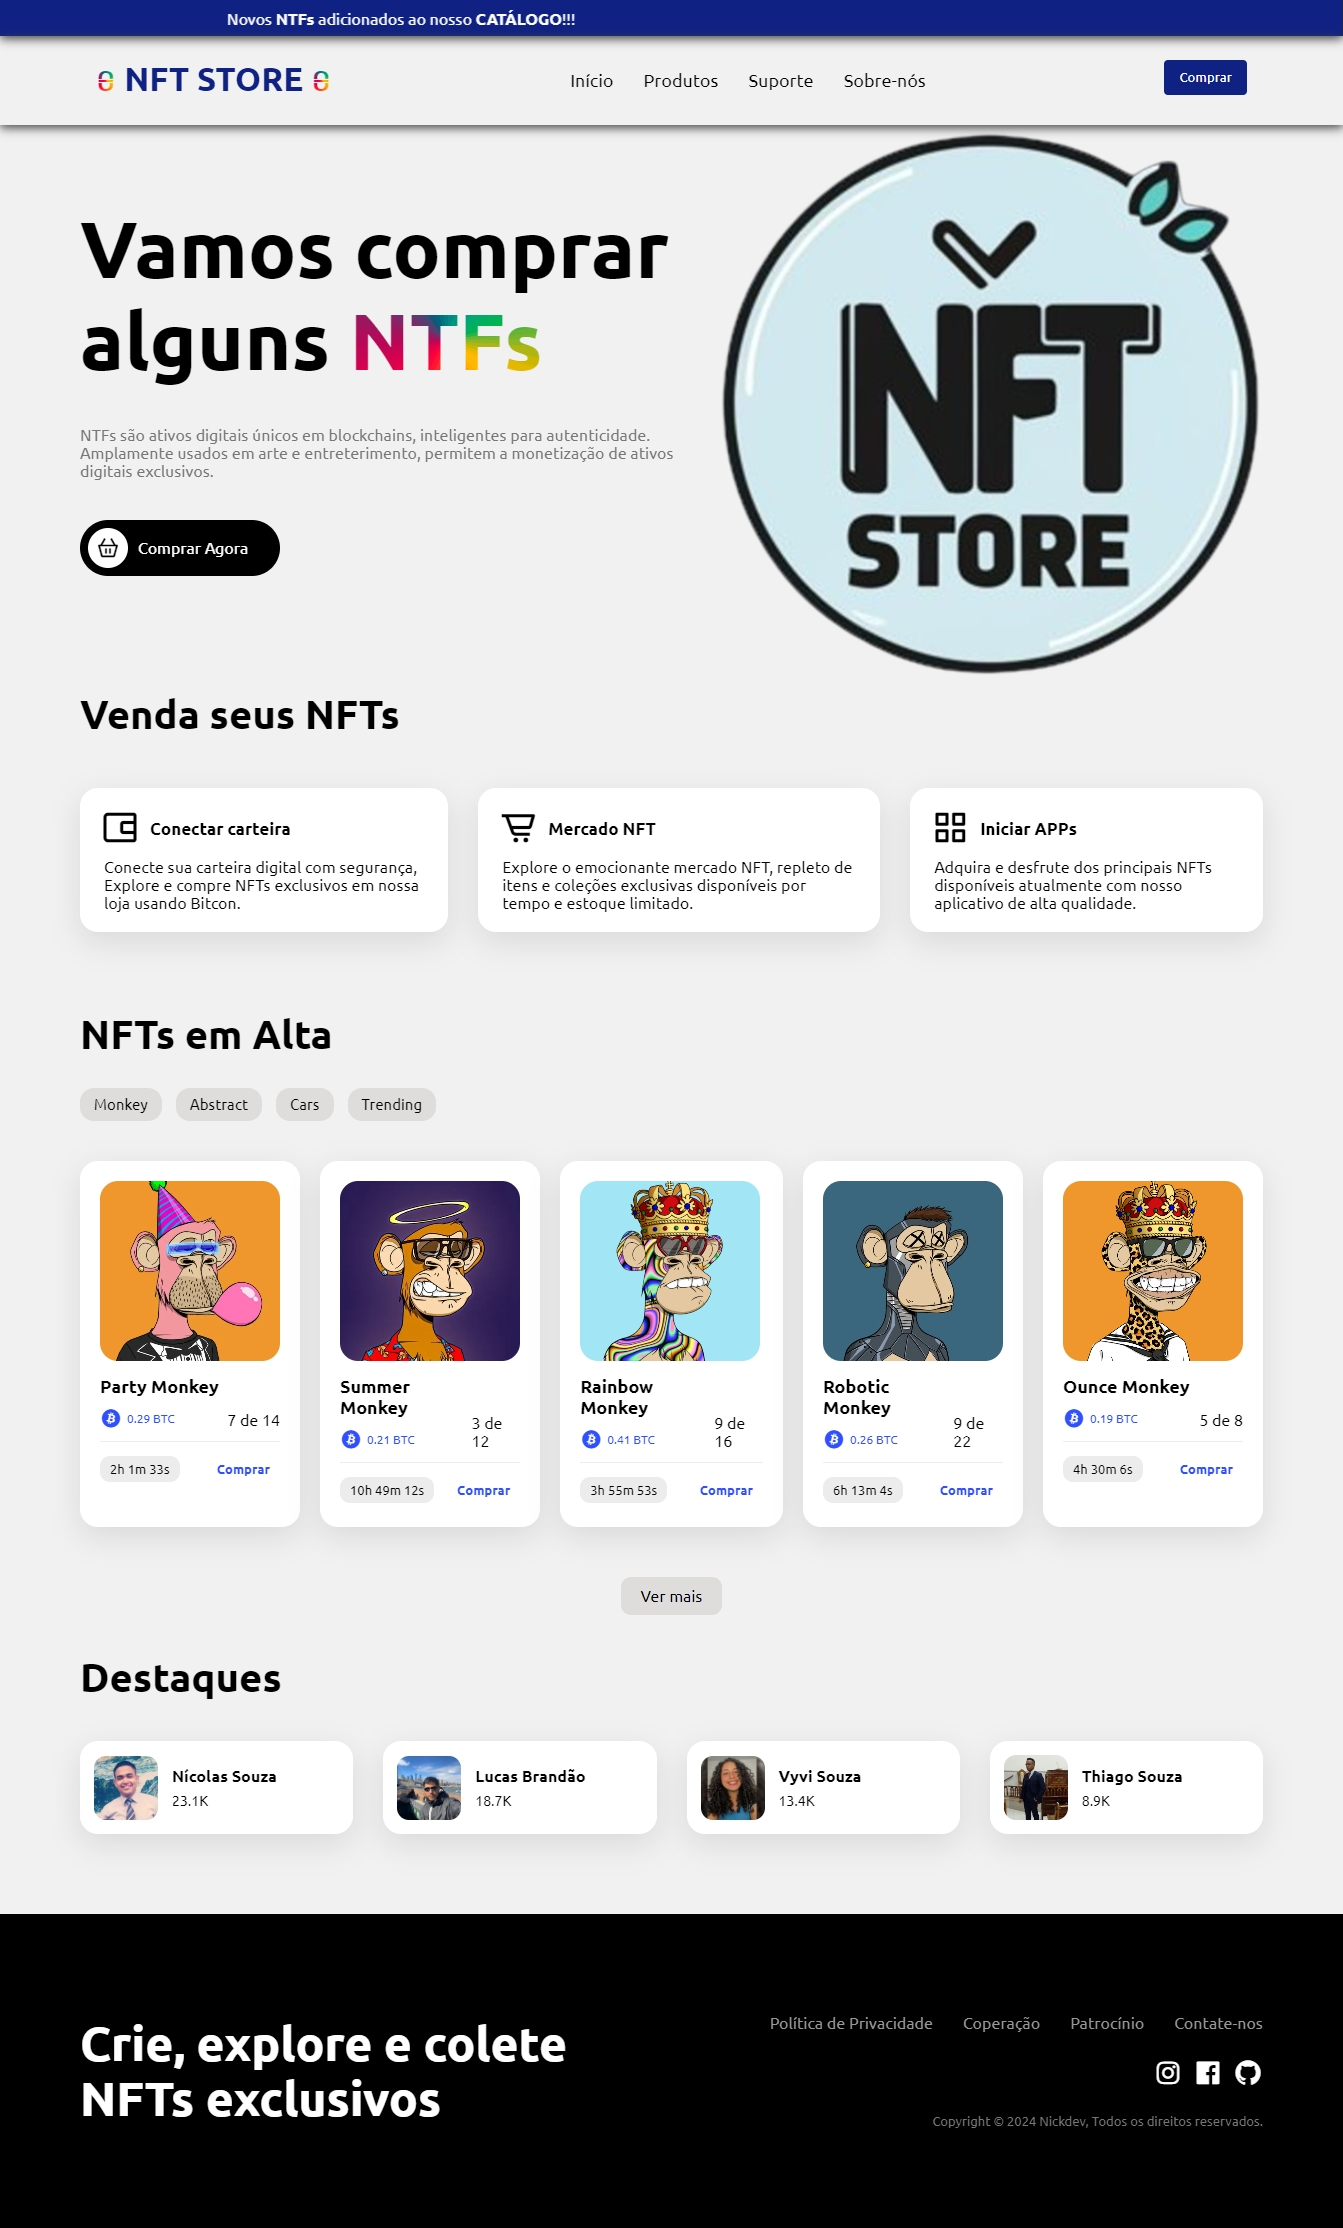
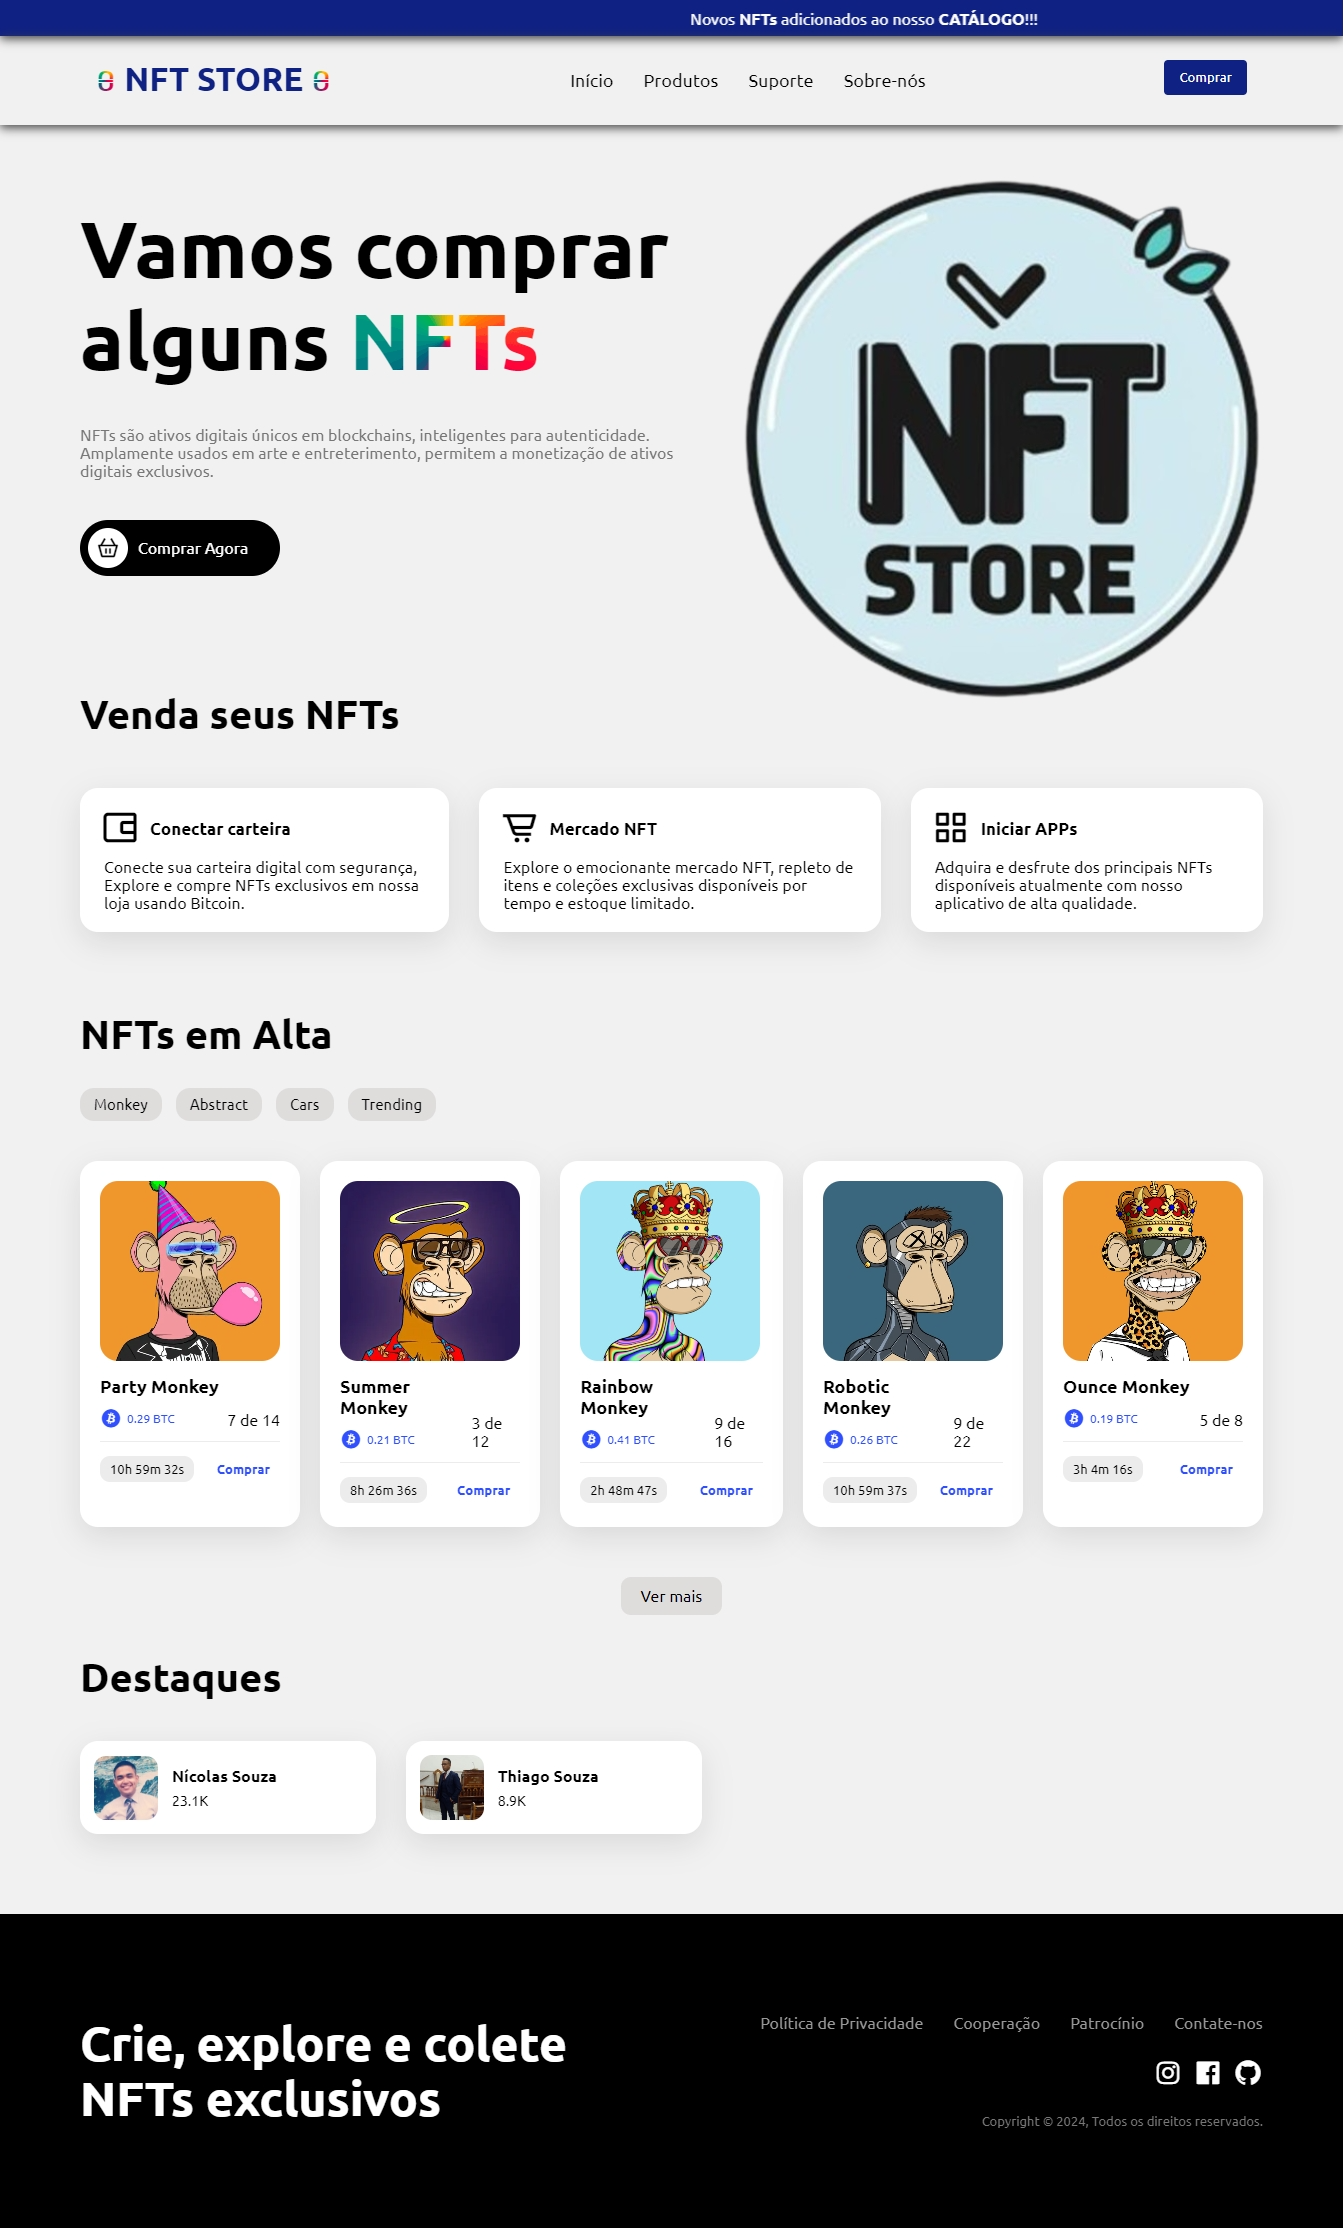
ajustando codigo

diff --git a/index.html b/index.html
@@ -29,7 +29,7 @@
 
     <!-- TOPO -->
     <header class="container">
-        <marquee>Novos <span class="nft">NTFs</span> adicionados ao nosso <span class="nft">CATÁLOGO</span>!!!</marquee>
+        <marquee>Novos <span class="nft">NFTs</span> adicionados ao nosso <span class="nft">CATÁLOGO</span>!!!</marquee>
     </header>
     
     <nav>
@@ -89,9 +89,9 @@
         data-aos-duration="800"
         data-aos-easing="ease-in-out" 
         class="left">
-            <h1>Vamos comprar alguns <span>NTFs</span></h1>
+            <h1>Vamos comprar alguns <span>NFTs</span></h1>
             <p>
-            NTFs são ativos digitais únicos em blockchains, inteligentes 
+            NFTs são ativos digitais únicos em blockchains, inteligentes 
             para autenticidade. Amplamente usados em arte e entreterimento, 
             permitem a monetização de ativos digitais exclusivos.
             </p>
@@ -126,7 +126,7 @@
                 <h5>Conectar carteira</h5>
             </div>
             <p>
-                Conecte sua carteira digital com segurança, Explore e compre NFTs exclusivos em nossa loja usando  Bitcon.
+                Conecte sua carteira digital com segurança, Explore e compre NFTs exclusivos em nossa loja usando  Bitcoin.
             </p>
         </div>
 
@@ -289,20 +289,6 @@
             </div>
         </div>
         <div class="item">
-            <img src="./assets/profile/profile-2.jpg">
-            <div class="info">
-                <h4>Lucas Brandão</h4>
-                <p>18.7K</p>
-            </div>
-        </div>
-        <div class="item">
-            <img src="./assets/profile/profile-3.jpg">
-            <div class="info">
-                <h4>Vyvi Souza</h4>
-                <p>13.4K</p>
-            </div>
-        </div>
-        <div class="item">
             <img src="./assets/profile/profile-4.png">
             <div class="info">
                 <h4>Thiago Souza</h4>
@@ -324,7 +310,7 @@
         class="right">
             <div class="links">
                 <a href="#">Política de Privacidade</a>
-                <a href="#">Coperação</a>
+                <a href="#">Cooperação</a>
                 <a href="#">Patrocínio</a>
                 <a href="#">Contate-nos</a>
             </div>
@@ -333,7 +319,7 @@
                 <i class='bx bxl-facebook-square'></i>
                 <i class='bx bxl-github'></i>
             </div>
-            <p>Copyright © 2024 Nickdev, Todos os direitos reservados.</p>
+            <p>Copyright © 2024, Todos os direitos reservados.</p>
         </div>
     </footer>
     
